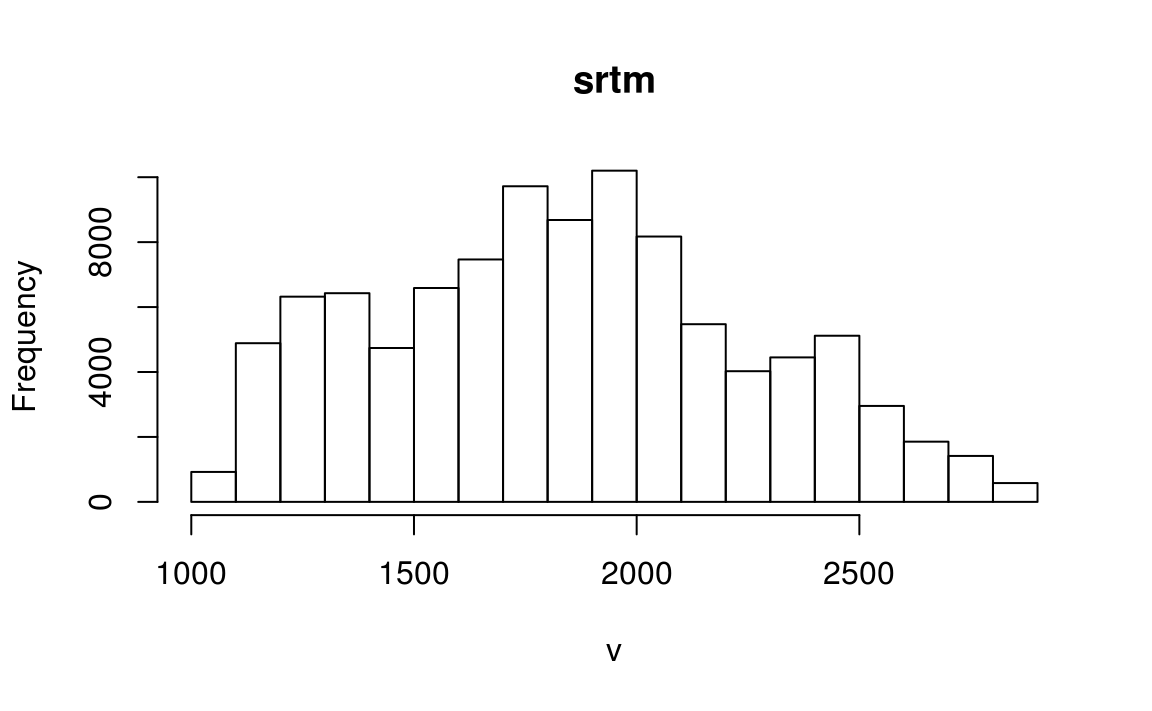
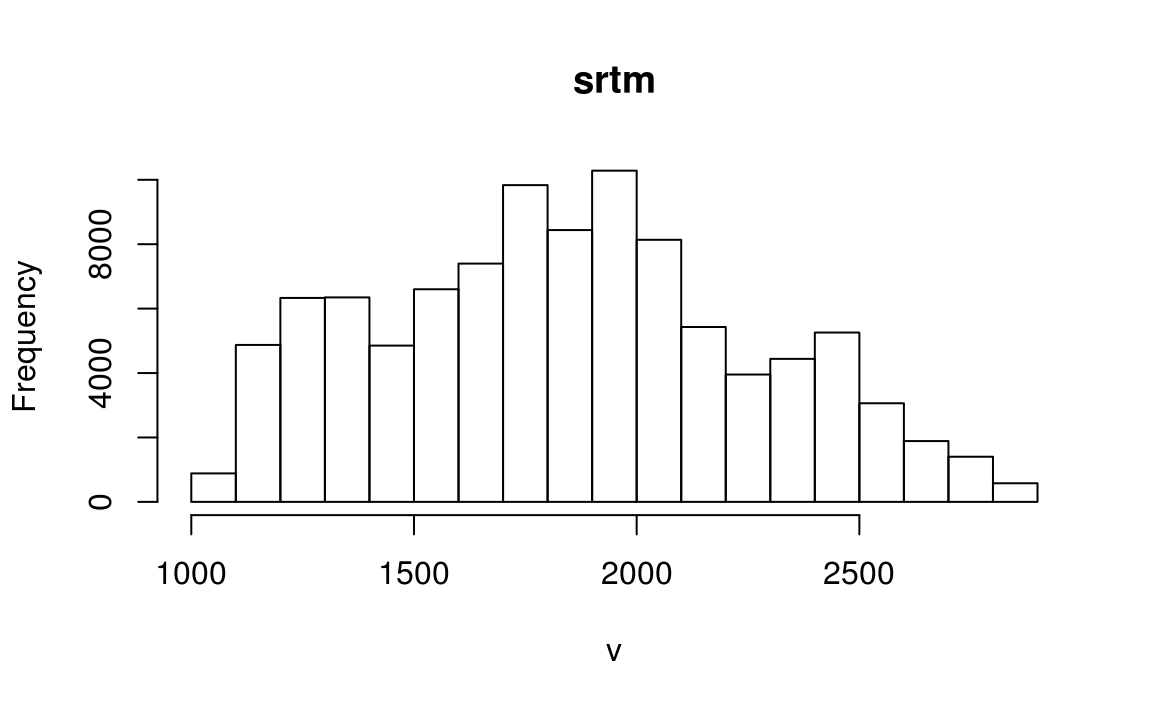
Updating book (3672)

diff --git a/spatial-class.html b/spatial-class.html
@@ -951,7 +951,7 @@ This and map algebra makes raster processing much more efficient and faster than
 However, in contrast to vector data, the cell of one raster layer can only hold a single value.
 The value might be numeric or categorical (Figure <a href="spatial-class.html#fig:raster-intro-plot">2.7</a>:C).</p>
 <div class="figure" style="text-align: center"><span id="fig:raster-intro-plot"></span>
-<img src="figures/02_raster_intro_plot.png" alt="Raster data: A - cell IDs; B - cell values; C - a colored raster map." width="1125" />
+<img src="figures/raster-intro-plot-1.png" alt="Raster data: A - cell IDs; B - cell values; C - a colored raster map." width="576" />
 <p class="caption">
 Figure 2.7: Raster data: A - cell IDs; B - cell values; C - a colored raster map.
 </p>
@@ -1000,10 +1000,10 @@ You can also summarize and plot raster cell values in a non-spatial fashion usin
 summary(new_raster)
 #> Warning in .local(object, ...): summary is an estimate based on a sample of 1e+05 cells (47.06% of all cells)
 #>         srtm
-#> Min.    1024
+#> Min.    1034
 #> 1st Qu. 1535
-#> Median  1836
-#> 3rd Qu. 2111
+#> Median  1839
+#> 3rd Qu. 2115
 #> Max.    2892
 #> NA's       0
 ```

diff --git a/main.md b/main.md
@@ -290,7 +290,7 @@ leaflet() %>%
 ```
 
 <div class="figure" style="text-align: center">
-preserve89474f11797bf4e1
+preserve2ce239cba58809fe
 <p class="caption">(\#fig:interactive)Where the authors are from. The basemap is a tiled image of the Earth at Night provided by NASA. Interact with the online version at robinlovelace.net/geocompr, for example by zooming-in and clicking on the popups.</p>
 </div>
 
@@ -1291,7 +1291,7 @@ However, in contrast to vector data, the cell of one raster layer can only hold 
 The value might be numeric or categorical (Figure  \@ref(fig:raster-intro-plot):C).
 
 <div class="figure" style="text-align: center">
-<img src="figures/02_raster_intro_plot.png" alt="Raster data: A - cell IDs; B - cell values; C - a colored raster map." width="1125" />
+<img src="figures/raster-intro-plot-1.png" alt="Raster data: A - cell IDs; B - cell values; C - a colored raster map." width="576" />
 <p class="caption">(\#fig:raster-intro-plot)Raster data: A - cell IDs; B - cell values; C - a colored raster map.</p>
 </div>
 
@@ -1352,10 +1352,10 @@ You can also summarize and plot raster cell values in a non-spatial fashion usin
 summary(new_raster)
 #> Warning in .local(object, ...): summary is an estimate based on a sample of 1e+05 cells (47.06% of all cells)
 #>         srtm
-#> Min.    1024
+#> Min.    1034
 #> 1st Qu. 1535
-#> Median  1836
-#> 3rd Qu. 2111
+#> Median  1839
+#> 3rd Qu. 2115
 #> Max.    2892
 #> NA's       0
 ```
@@ -3067,7 +3067,7 @@ any(st_touches(cycle_hire, cycle_hire_osm, sparse = FALSE))
 
 
 <div class="figure" style="text-align: center">
-preservefe8ff5471c58d498
+preserve30c2c787f555e0ae
 <p class="caption">(\#fig:cycle-hire)The spatial distribution of cycle hire points in London based on official data (blue) and OpenStreetMap data (red).</p>
 </div>
 
@@ -6472,7 +6472,7 @@ map_nz
 ```
 
 <div class="figure" style="text-align: center">
-preserve58d5e641b62c03e0
+preservef0eebcac8df59495
 <p class="caption">(\#fig:tmview)Interactive map of New Zealand created with tmap in view mode.</p>
 </div>
 
@@ -6571,7 +6571,7 @@ leaflet(data = cycle_hire) %>%
 ```
 
 <div class="figure" style="text-align: center">
-preserve36b2d7989f8ab1af
+preserve0225d1ee44b514c7
 <p class="caption">(\#fig:leaflet)The leaflet package in action, showing cycle hire points in London.</p>
 </div>
 
@@ -9754,7 +9754,7 @@ result = sum(reclass)
 For instance, a score greater than 9 might be a suitable threshold indicating raster cells where a bike shop could be placed (Figure \@ref(fig:bikeshop-berlin); see also `code/13-location-jm.R`).
 
 <div class="figure" style="text-align: center">
-preserve8fe99f5b282ce811
+preserve803d6ff417ed5e33
 <p class="caption">(\#fig:bikeshop-berlin)Suitable areas (i.e. raster cells with a score > 9) in accordance with our hypothetical survey for bike stores in Berlin.</p>
 </div>
 
